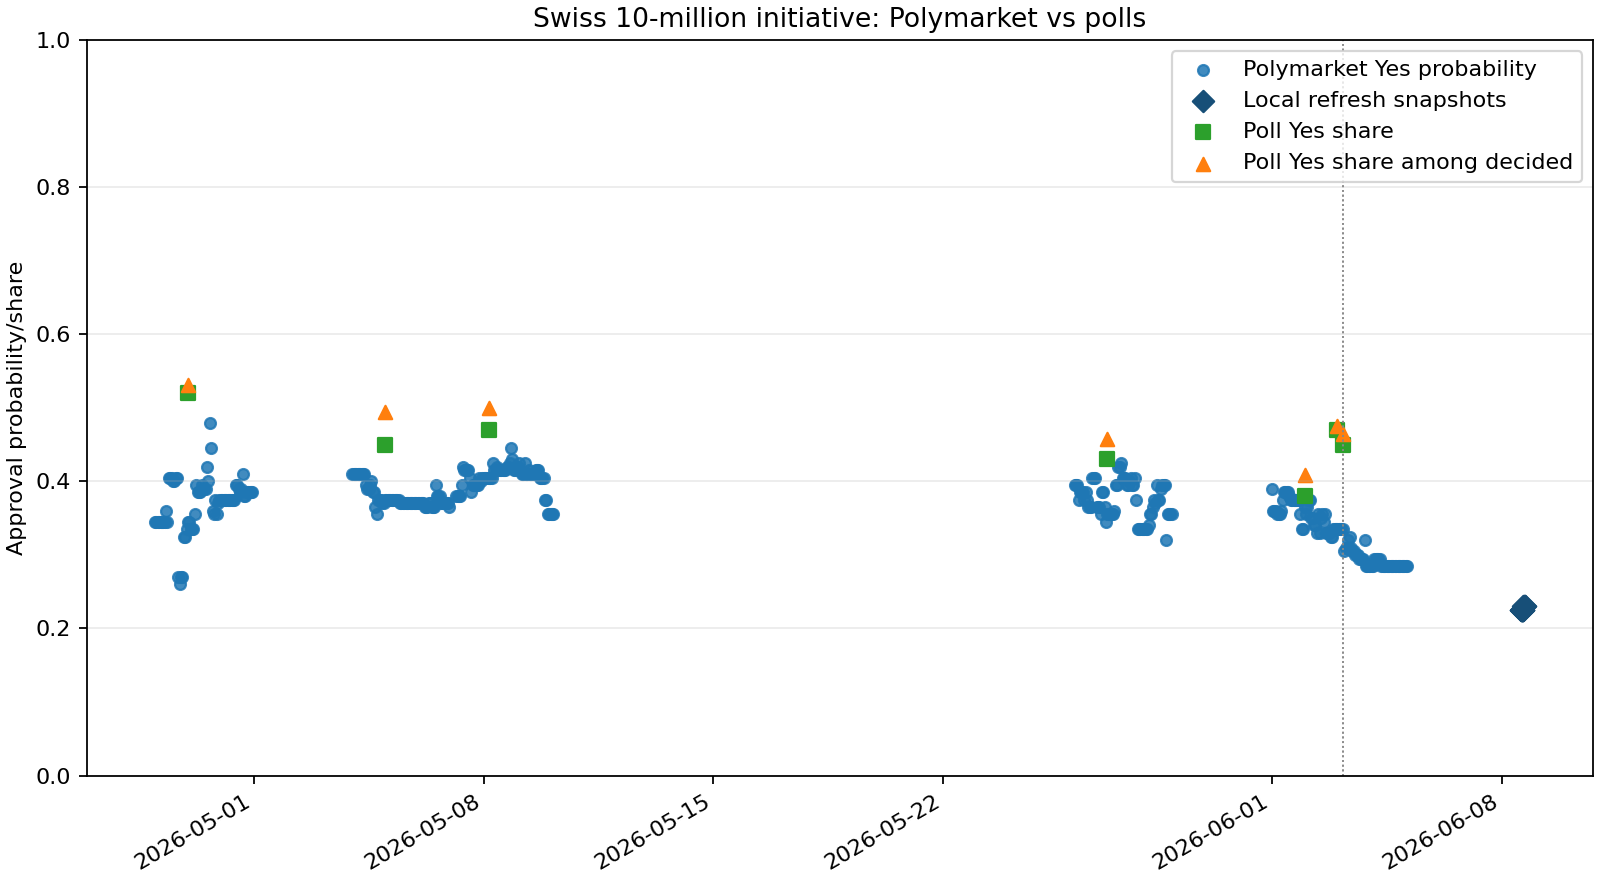
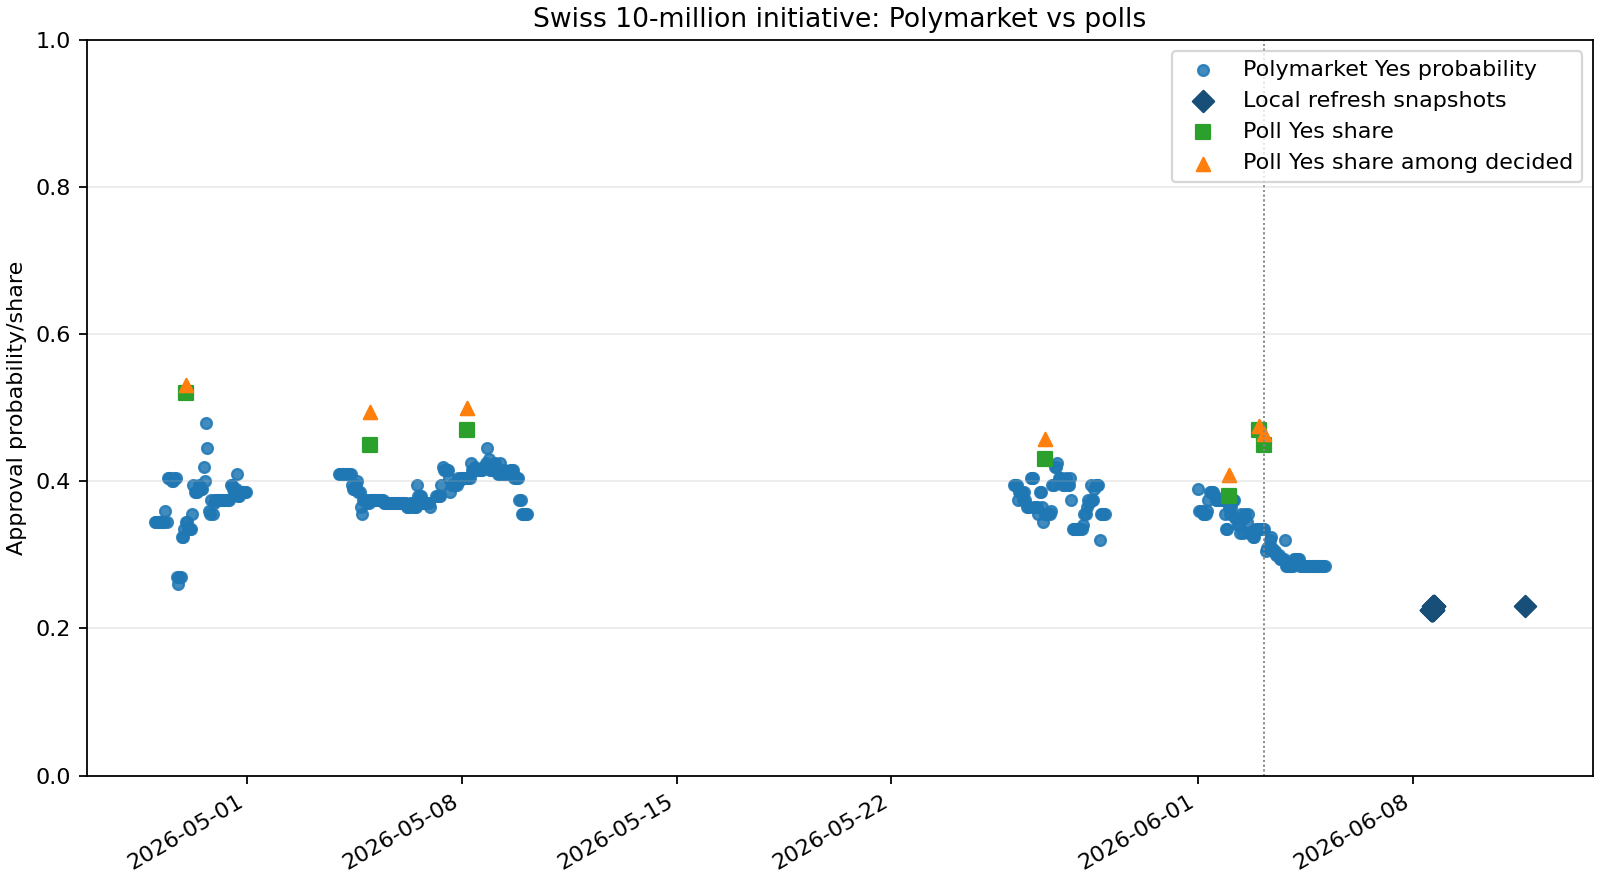
data: refresh swiss referendum comparison snapshot

diff --git a/data/results/swiss_referendum_10mio_dashboard.html b/data/results/swiss_referendum_10mio_dashboard.html
@@ -21,7 +21,7 @@
   <h1>Swiss 10-Million Referendum Efficiency View</h1>
   <p class="note">Read-only deterministic comparison. Poll shares are survey shares, not model-implied win probabilities. Divergence labels are descriptive and make no causal, trading, or profitability claim.</p>
   <section class="metrics">
-    <div class="metric">Snapshots<strong>18</strong></div>
+    <div class="metric">Snapshots<strong>19</strong></div>
     <div class="metric">Polls<strong>7</strong></div>
     <div class="metric">Latest Polymarket Yes<strong>23.0%</strong></div>
     <div class="metric">Latest poll comparison<strong>45.0% raw Yes, 46.4% decided Yes</strong></div>
@@ -29,7 +29,7 @@
     <div class="metric">Decided Yes gap<strong>-23.4 pp</strong></div>
     <div class="metric">Label<strong>polymarket_below_poll_yes_share</strong></div>
     <div class="metric">Poll proxy relation<strong>below_poll_proxy</strong></div>
-    <div class="metric compact">Latest local snapshot<strong>2026-06-08T17:00:19Z</strong></div>
+    <div class="metric compact">Latest local snapshot<strong>2026-06-11T15:43:35Z</strong></div>
     <div class="metric compact">Latest matched poll<strong>srg_gfs_bern_2026_w2</strong></div>
     <div class="metric compact">Matched poll published<strong>2026-06-03T03:55:00Z</strong></div>
     <div class="metric compact">Refresh mode<strong>manual bounded refresh</strong></div>
@@ -61,7 +61,8 @@
 <tr><td>2026-06-08T16:08:56Z</td><td>0.230</td><td>srg_gfs_bern_2026_w2</td><td>0.450</td><td>0.464</td><td>-0.220</td><td>-0.234</td><td>polymarket_below_poll_yes_share</td><td>below_poll_proxy</td></tr>
 <tr><td>2026-06-08T16:22:16Z</td><td>0.230</td><td>srg_gfs_bern_2026_w2</td><td>0.450</td><td>0.464</td><td>-0.220</td><td>-0.234</td><td>polymarket_below_poll_yes_share</td><td>below_poll_proxy</td></tr>
 <tr><td>2026-06-08T16:58:47Z</td><td>0.230</td><td>srg_gfs_bern_2026_w2</td><td>0.450</td><td>0.464</td><td>-0.220</td><td>-0.234</td><td>polymarket_below_poll_yes_share</td><td>below_poll_proxy</td></tr>
-<tr><td>2026-06-08T17:00:19Z</td><td>0.230</td><td>srg_gfs_bern_2026_w2</td><td>0.450</td><td>0.464</td><td>-0.220</td><td>-0.234</td><td>polymarket_below_poll_yes_share</td><td>below_poll_proxy</td></tr></tbody>
+<tr><td>2026-06-08T17:00:19Z</td><td>0.230</td><td>srg_gfs_bern_2026_w2</td><td>0.450</td><td>0.464</td><td>-0.220</td><td>-0.234</td><td>polymarket_below_poll_yes_share</td><td>below_poll_proxy</td></tr>
+<tr><td>2026-06-11T15:43:35Z</td><td>0.230</td><td>srg_gfs_bern_2026_w2</td><td>0.450</td><td>0.464</td><td>-0.220</td><td>-0.234</td><td>polymarket_below_poll_yes_share</td><td>below_poll_proxy</td></tr></tbody>
   </table>
   <h2>Latest Poll-Source Comparison</h2>
   <p class="note">This table compares the latest local Polymarket snapshot with the newest prior poll from each curated poll source. It is a cross-source poll-proxy view, not a model average or mispricing test.</p>

diff --git a/STATUS.md b/STATUS.md
@@ -3,7 +3,7 @@
 <!-- PROJECT_STATUS:START -->
 ## Automation Snapshot
 
-Generated: 2026-06-11 04:33
+Generated: 2026-06-11 17:45
 
 Current goal: `goal-swiss-referendum-efficiency-001` - Build Swiss 10-million referendum Polymarket-vs-polls comparison
 
@@ -11,240 +11,43 @@ Current roadmap phase: Phase 11: Swiss Referendum Efficiency Comparison
 
 Test status: PASS
 
-Pytest summary: `468 passed in 46.25s`
+Pytest summary: `468 passed in 52.45s`
 
 Git branch: `main`
 
-Latest commit: `75636ed`
+Latest commit: `b91f9bf`
 
 Git status:
 
 ```text
- M STATUS.md
- M docs/project/WORK_LOG.md
- M docs/research/RESEARCH_SPEC.md
- M requirements.txt
-?? data/results/h1_270towin_poll_average.png
-?? data/results/h1_270towin_poll_average_cases.csv
-?? data/results/h1_270towin_poll_average_metadata.json
-?? data/results/h1_270towin_poll_average_summary.csv
-?? data/results/h1_270towin_state_forecast.png
-?? data/results/h1_270towin_state_forecast_cases.csv
-?? data/results/h1_270towin_state_forecast_metadata.json
-?? data/results/h1_270towin_state_forecast_summary.csv
-?? data/results/h1_calibration_diagnostic.png
-?? data/results/h1_calibration_diagnostic_bins.csv
-?? data/results/h1_calibration_diagnostic_cases.csv
-?? data/results/h1_calibration_diagnostic_metadata.json
-?? data/results/h1_calibration_diagnostic_pairwise.csv
-?? data/results/h1_calibration_diagnostic_summary.csv
-?? data/results/h1_claim_evidence_audit.csv
-?? data/results/h1_claim_evidence_audit.png
-?? data/results/h1_claim_evidence_audit_metadata.json
-?? data/results/h1_claim_evidence_audit_summary.csv
-?? data/results/h1_competitive_state_diagnostic.png
-?? data/results/h1_competitive_state_diagnostic_cases.csv
-?? data/results/h1_competitive_state_diagnostic_metadata.json
-?? data/results/h1_competitive_state_diagnostic_summary.csv
-?? data/results/h1_competitive_state_diagnostic_tiers.csv
-?? data/results/h1_direct_poll_loss_decomposition.png
-?? data/results/h1_direct_poll_loss_decomposition_cases.csv
-?? data/results/h1_direct_poll_loss_decomposition_metadata.json
-?? data/results/h1_direct_poll_loss_decomposition_summary.csv
-?? data/results/h1_direct_poll_outlier_robustness.png
-?? data/results/h1_direct_poll_outlier_robustness_metadata.json
-?? data/results/h1_direct_poll_outlier_robustness_scenarios.csv
-?? data/results/h1_direct_poll_outlier_robustness_summary.csv
-?? data/results/h1_direct_poll_state_cluster_diagnostic.png
-?? data/results/h1_direct_poll_state_cluster_diagnostic_metadata.json
-?? data/results/h1_direct_poll_state_cluster_diagnostic_states.csv
-?? data/results/h1_direct_poll_state_cluster_diagnostic_summary.csv
-?? data/results/h1_evidence_scope.csv
-?? data/results/h1_evidence_scope.png
-?? data/results/h1_evidence_scope_metadata.json
-?? data/results/h1_expansion_readiness.csv
-?? data/results/h1_expansion_readiness.png
-?? data/results/h1_expansion_readiness_metadata.json
-?? data/results/h1_final_snapshot.png
-?? data/results/h1_final_snapshot_cases.csv
-?? data/results/h1_final_snapshot_metadata.json
-?? data/results/h1_final_snapshot_summary.csv
-?? data/results/h1_forecast_quality.png
-?? data/results/h1_forecast_quality_metadata.json
-?? data/results/h1_forecast_quality_pairwise.csv
-?? data/results/h1_forecast_quality_sources.csv
-?? data/results/h1_forecast_quality_synthesis.csv
-?? data/results/h1_forecast_quality_synthesis.png
-?? data/results/h1_forecast_quality_synthesis_metadata.json
-?? data/results/h1_margin_threshold_readiness.csv
-?? data/results/h1_margin_threshold_readiness.png
-?? data/results/h1_margin_threshold_readiness_metadata.json
-?? data/results/h1_poll_claim_readiness.csv
-?? data/results/h1_poll_claim_readiness.png
-?? data/results/h1_poll_claim_readiness_metadata.json
-?? data/results/h1_poll_claim_readiness_summary.csv
-?? data/results/h1_poll_comparison_result.csv
-?? data/results/h1_poll_comparison_result.png
-?? data/results/h1_poll_comparison_result_metadata.json
-?? data/results/h1_poll_comparison_result_summary.csv
-?? data/results/h1_poll_comparison_unit_robustness.png
-?? data/results/h1_poll_comparison_unit_robustness_metadata.json
-?? data/results/h1_poll_comparison_unit_robustness_summary.csv
-?? data/results/h1_poll_comparison_unit_robustness_units.csv
-?? data/results/h1_poll_decision_matrix.csv
-?? data/results/h1_poll_decision_matrix.png
-?? data/results/h1_poll_decision_matrix_metadata.json
-?? data/results/h1_poll_decision_matrix_summary.csv
-?? data/results/h1_poll_scope_frontier.csv
-?? data/results/h1_poll_scope_frontier.png
-?? data/results/h1_poll_scope_frontier_metadata.json
-?? data/results/h1_poll_scope_frontier_summary.csv
-?? data/results/h1_popular_vote.png
-?? data/results/h1_popular_vote_cases.csv
-?? data/results/h1_popular_vote_metadata.json
-?? data/results/h1_popular_vote_summary.csv
-?? data/results/h1_rieke_state_forecast.png
-?? data/results/h1_rieke_state_forecast_cases.csv
-?? data/results/h1_rieke_state_forecast_metadata.json
-?? data/results/h1_rieke_state_forecast_summary.csv
-?? data/results/h1_robust_poll_scope_quality.png
-?? data/results/h1_robust_poll_scope_quality_bins.csv
-?? data/results/h1_robust_poll_scope_quality_metadata.json
-?? data/results/h1_robust_poll_scope_quality_pairwise.csv
-?? data/results/h1_robust_poll_scope_quality_rows.csv
-?? data/results/h1_robust_poll_scope_quality_summary.csv
-?? data/results/h1_robust_poll_scope_unit_quality.png
-?? data/results/h1_robust_poll_scope_unit_quality_metadata.json
-?? data/results/h1_robust_poll_scope_unit_quality_summary.csv
-?? data/results/h1_robust_poll_scope_unit_quality_units.csv
-?? data/results/h1_state_poll_panel.png
-?? data/results/h1_state_poll_panel_cases.csv
-?? data/results/h1_state_poll_panel_competitiveness.png
-?? data/results/h1_state_poll_panel_competitiveness_grid.csv
-?? data/results/h1_state_poll_panel_competitiveness_metadata.json
-?? data/results/h1_state_poll_panel_competitiveness_state.csv
-?? data/results/h1_state_poll_panel_competitiveness_summary.csv
-?? data/results/h1_state_poll_panel_coverage.csv
-?? data/results/h1_state_poll_panel_horizon_claim_audit.csv
-?? data/results/h1_state_poll_panel_horizon_diagnostic.png
-?? data/results/h1_state_poll_panel_horizon_diagnostic_metadata.json
-?? data/results/h1_state_poll_panel_horizon_state_summary.csv
-?? data/results/h1_state_poll_panel_horizon_state_support.csv
-?? data/results/h1_state_poll_panel_horizon_state_support.png
-?? data/results/h1_state_poll_panel_horizon_state_support_metadata.json
-?? data/results/h1_state_poll_panel_horizon_state_support_summary.csv
-?? data/results/h1_state_poll_panel_horizon_summary.csv
-?? data/results/h1_state_poll_panel_metadata.json
-?? data/results/h1_state_poll_panel_near_window_quality.png
-?? data/results/h1_state_poll_panel_near_window_quality_bins.csv
-?? data/results/h1_state_poll_panel_near_window_quality_metadata.json
-?? data/results/h1_state_poll_panel_near_window_quality_rows.csv
-?? data/results/h1_state_poll_panel_near_window_quality_summary.csv
-?? data/results/h1_state_poll_panel_state_significance.csv
-?? data/results/h1_state_poll_panel_state_significance.png
-?? data/results/h1_state_poll_panel_state_significance_metadata.json
-?? data/results/h1_state_poll_panel_state_significance_summary.csv
-?? data/results/h1_state_poll_panel_state_summary.csv
-?? data/results/h1_state_poll_panel_summary.csv
-?? data/results/h1_state_poll_panel_temporal_claim_audit.csv
-?? data/results/h1_state_poll_panel_temporal_diagnostic.png
-?? data/results/h1_state_poll_panel_temporal_diagnostic_metadata.json
-?? data/results/h1_state_poll_panel_temporal_state_month.csv
-?? data/results/h1_state_poll_panel_temporal_summary.csv
-?? data/results/h1_state_poll_snapshot.png
-?? data/results/h1_state_poll_snapshot_cases.csv
-?? data/results/h1_state_poll_snapshot_coverage.csv
-?? data/results/h1_state_poll_snapshot_coverage.png
-?? data/results/h1_state_poll_snapshot_metadata.json
-?? data/results/h1_state_poll_snapshot_sensitivity.csv
-?? data/results/h1_state_poll_snapshot_sensitivity.png
-?? data/results/h1_state_poll_snapshot_summary.csv
-?? data/results/h1_state_source_consensus.png
-?? data/results/h1_state_source_consensus_cases.csv
-?? data/results/h1_state_source_consensus_metadata.json
-?? data/results/h1_state_source_consensus_state_summary.csv
-?? data/results/h1_state_source_consensus_summary.csv
-?? docs/project/dozentenbericht_assets/
-?? docs/project/dozentenbericht_ba_thesis.docx
-?? docs/project/dozentenbericht_ba_thesis.html
-?? docs/project/dozentenbericht_ba_thesis.md
-?? docs/project/dozentenbericht_ba_thesis_h1_forecast_quality.docx
-?? operations/analysis/h1_270towin_poll_average_extension.py
-?? operations/analysis/h1_270towin_state_forecast_extension.py
-?? operations/analysis/h1_calibration_diagnostic.py
-?? operations/analysis/h1_claim_evidence_audit.py
-?? operations/analysis/h1_competitive_state_diagnostic.py
-?? operations/analysis/h1_direct_poll_loss_decomposition.py
-?? operations/analysis/h1_direct_poll_outlier_robustness.py
-?? operations/analysis/h1_direct_poll_state_cluster_diagnostic.py
-?? operations/analysis/h1_evidence_scope.py
-?? operations/analysis/h1_expansion_readiness.py
-?? operations/analysis/h1_final_snapshot_extension.py
-?? operations/analysis/h1_forecast_quality.py
-?? operations/analysis/h1_forecast_quality_synthesis.py
-?? operations/analysis/h1_margin_threshold_readiness.py
-?? operations/analysis/h1_poll_claim_readiness.py
-?? operations/analysis/h1_poll_comparison_result.py
-?? operations/analysis/h1_poll_comparison_unit_robustness.py
-?? operations/analysis/h1_poll_decision_matrix.py
-?? operations/analysis/h1_poll_scope_frontier.py
-?? operations/analysis/h1_popular_vote_extension.py
-?? operations/analysis/h1_rieke_state_forecast_extension.py
-?? operations/analysis/h1_robust_poll_scope_quality.py
-?? operations/analysis/h1_robust_poll_scope_unit_quality.py
-?? operations/analysis/h1_state_poll_panel_competitiveness_diagnostic.py
-?? operations/analysis/h1_state_poll_panel_extension.py
-?? operations/analysis/h1_state_poll_panel_horizon_diagnostic.py
-?? operations/analysis/h1_state_poll_panel_horizon_state_diagnostic.py
-?? operations/analysis/h1_state_poll_panel_near_window_quality.py
-?? operations/analysis/h1_state_poll_panel_state_significance.py
-?? operations/analysis/h1_state_poll_panel_temporal_diagnostic.py
-?? operations/analysis/h1_state_poll_snapshot_extension.py
-?? operations/analysis/h1_state_source_consensus.py
-?? operations/project/build_dozenten_report.py
-?? tests/test_dozenten_report.py
-?? tests/test_h1_270towin_poll_average_extension.py
-?? tests/test_h1_270towin_state_forecast_extension.py
-?? tests/test_h1_calibration_diagnostic.py
-?? tests/test_h1_claim_evidence_audit.py
-?? tests/test_h1_competitive_state_diagnostic.py
-?? tests/test_h1_direct_poll_loss_decomposition.py
-?? tests/test_h1_direct_poll_outlier_robustness.py
-?? tests/test_h1_direct_poll_state_cluster_diagnostic.py
-?? tests/test_h1_evidence_scope.py
-?? tests/test_h1_expansion_readiness.py
-?? tests/test_h1_final_snapshot_extension.py
-?? tests/test_h1_forecast_quality.py
-?? tests/test_h1_forecast_quality_synthesis.py
-?? tests/test_h1_margin_threshold_readiness.py
-?? tests/test_h1_poll_claim_readiness.py
-?? tests/test_h1_poll_comparison_result.py
-?? tests/test_h1_poll_comparison_unit_robustness.py
-?? tests/test_h1_poll_decision_matrix.py
-?? tests/test_h1_poll_scope_frontier.py
-?? tests/test_h1_popular_vote_extension.py
-?? tests/test_h1_rieke_state_forecast_extension.py
-?? tests/test_h1_robust_poll_scope_quality.py
-?? tests/test_h1_robust_poll_scope_unit_quality.py
-?? tests/test_h1_state_poll_panel_competitiveness_diagnostic.py
-?? tests/test_h1_state_poll_panel_extension.py
-?? tests/test_h1_state_poll_panel_horizon_diagnostic.py
-?? tests/test_h1_state_poll_panel_horizon_state_diagnostic.py
-?? tests/test_h1_state_poll_panel_near_window_quality.py
-?? tests/test_h1_state_poll_panel_state_significance.py
-?? tests/test_h1_state_poll_panel_temporal_diagnostic.py
-?? tests/test_h1_state_poll_snapshot_extension.py
-?? tests/test_h1_state_source_consensus.py
+ M data/results/swiss_referendum_10mio_comparison.csv
+ M data/results/swiss_referendum_10mio_dashboard.html
+ M data/results/swiss_referendum_10mio_efficiency.png
+ M data/results/swiss_referendum_10mio_efficiency_metadata.json
+ M data/results/swiss_referendum_10mio_latest_source_comparison.csv
+ M data/results/swiss_referendum_10mio_latest_summary.md
+ M data/results/swiss_referendum_10mio_polymarket_price_history_metadata.json
+ M data/results/swiss_referendum_10mio_polymarket_snapshot_metadata.json
+ M data/results/swiss_referendum_10mio_polymarket_snapshots.csv
+ M data/results/swiss_referendum_10mio_refresh_metadata.json
+ M data/results/swiss_referendum_10mio_running_status.json
 ```
 
 Git diff stat:
 
 ```text
- STATUS.md                      |  286 +++-
- docs/project/WORK_LOG.md       | 2865 ++++++++++++++++++++++++++++++++++++++++
- docs/research/RESEARCH_SPEC.md | 1333 ++++++++++++++++++-
- requirements.txt               |    3 +
- 4 files changed, 4393 insertions(+), 94 deletions(-)
+ data/results/swiss_referendum_10mio_comparison.csv  |   1 +
+ data/results/swiss_referendum_10mio_dashboard.html  |   7 ++++---
+ data/results/swiss_referendum_10mio_efficiency.png  | Bin 84869 -> 84509 bytes
+ .../swiss_referendum_10mio_efficiency_metadata.json |   8 ++++----
+ ...ss_referendum_10mio_latest_source_comparison.csv |   6 +++---
+ .../swiss_referendum_10mio_latest_summary.md        |   6 +++---
+ ...dum_10mio_polymarket_price_history_metadata.json |   2 +-
+ ...ferendum_10mio_polymarket_snapshot_metadata.json |   8 ++++----
+ .../swiss_referendum_10mio_polymarket_snapshots.csv |   1 +
+ .../swiss_referendum_10mio_refresh_metadata.json    |  14 +++++++-------
+ .../swiss_referendum_10mio_running_status.json      |   8 ++++----
+ 11 files changed, 32 insertions(+), 29 deletions(-)
 ```
 
 Blockers:

diff --git a/docs/project/WORK_LOG.md b/docs/project/WORK_LOG.md
@@ -6557,6 +6557,69 @@ Verification:
 - `.\.venv\Scripts\python.exe -m operations.project.update_status`
   -> PASS, 468 passed in 46.25s.
 
+## 2026-06-11 - Swiss referendum bounded live refresh after H1 commit
+
+Context:
+
+- Committed the completed H1 forecast-quality diagnostic block as
+  `b91f9bf feat: add h1 forecast quality diagnostics`.
+- Moved to the active Phase 11 Swiss referendum comparison after H1 intensive
+  work.
+- Ran one manual bounded read-only Polymarket refresh. No background daemon,
+  authenticated endpoint, order path, trading credential, LLM, agent, MCP, ML,
+  database write, causal claim, tradeability claim, profitability claim, or
+  mispricing proof was used.
+
+Generated or updated:
+
+- `data/results/swiss_referendum_10mio_polymarket_snapshots.csv`
+- `data/results/swiss_referendum_10mio_comparison.csv`
+- `data/results/swiss_referendum_10mio_latest_source_comparison.csv`
+- `data/results/swiss_referendum_10mio_poll_impacts.csv`
+- `data/results/swiss_referendum_10mio_information_response.csv`
+- `data/results/swiss_referendum_10mio_efficiency.png`
+- `data/results/swiss_referendum_10mio_dashboard.html`
+- `data/results/swiss_referendum_10mio_latest_summary.md`
+- `data/results/swiss_referendum_10mio_refresh_metadata.json`
+- `data/results/swiss_referendum_10mio_running_status.json`
+
+Key output:
+
+- Snapshot rows: 19.
+- Comparison rows: 19.
+- Bounded price-history rows: 504.
+- Poll-impact rows: 7, all `observed_pre_post`.
+- Information-response rows: 7.
+- Latest local Polymarket Yes probability: 0.23.
+- Latest matched poll: `srg_gfs_bern_2026_w2`.
+- Latest poll Yes share: 0.45.
+- Raw Yes gap: -0.22.
+- Decided-voter Yes gap: -0.2339175258.
+- Latest divergence label: `polymarket_below_poll_yes_share`.
+- Running status: all outputs exist; snapshot recency status `fresh`.
+
+Interpretation:
+
+- The latest local Polymarket probability is below the latest curated poll Yes
+  share and below the decided-voter normalization.
+- This is a descriptive poll-proxy comparison only. It does not prove
+  undervaluation, overvaluation, inefficiency, causality, tradeability, or
+  profitability.
+
+Figure:
+
+- `data/results/swiss_referendum_10mio_efficiency.png` shows the latest
+  Polymarket probability against curated poll shares from the local artifacts.
+
+Verification:
+
+- `.\.venv\Scripts\python.exe -m operations.collectors.swiss_referendum_refresh --source live`
+  -> PASS, generated one bounded live snapshot and regenerated local outputs.
+- `.\.venv\Scripts\python.exe -m pytest tests\test_swiss_referendum_polymarket.py tests\test_swiss_referendum_history.py tests\test_swiss_referendum_efficiency.py tests\test_swiss_referendum_refresh.py -q`
+  -> PASS, 27 passed.
+- `.\.venv\Scripts\python.exe -m operations.project.update_status`
+  -> PASS, 468 passed in 52.45s.
+
 ## 2026-06-11 - H1 robust poll-scope quality diagnostic
 
 Context:

diff --git a/data/results/swiss_referendum_10mio_latest_summary.md b/data/results/swiss_referendum_10mio_latest_summary.md
@@ -2,8 +2,8 @@
 
 ## Generated Or Inspected
 
-- Comparison rows: 18.
-- Polymarket snapshot rows: 18.
+- Comparison rows: 19.
+- Polymarket snapshot rows: 19.
 - Bounded price-history rows: 504.
 - Curated poll rows: 7 from SRG/gfs.bern, Tamedia/20 Minuten/LeeWas, YouGov Schweiz.
 - Poll-impact rows: 7 (observed_pre_post: 7).
@@ -42,7 +42,7 @@
 
 ## Key Numerical Result
 
-- Latest snapshot: 2026-06-08T17:00:19Z.
+- Latest snapshot: 2026-06-11T15:43:35Z.
 - Latest matched poll: srg_gfs_bern_2026_w2 (SRG/gfs.bern).
 - Polymarket Yes probability: 23.0%.
 - Latest poll Yes share: 45.0%.
